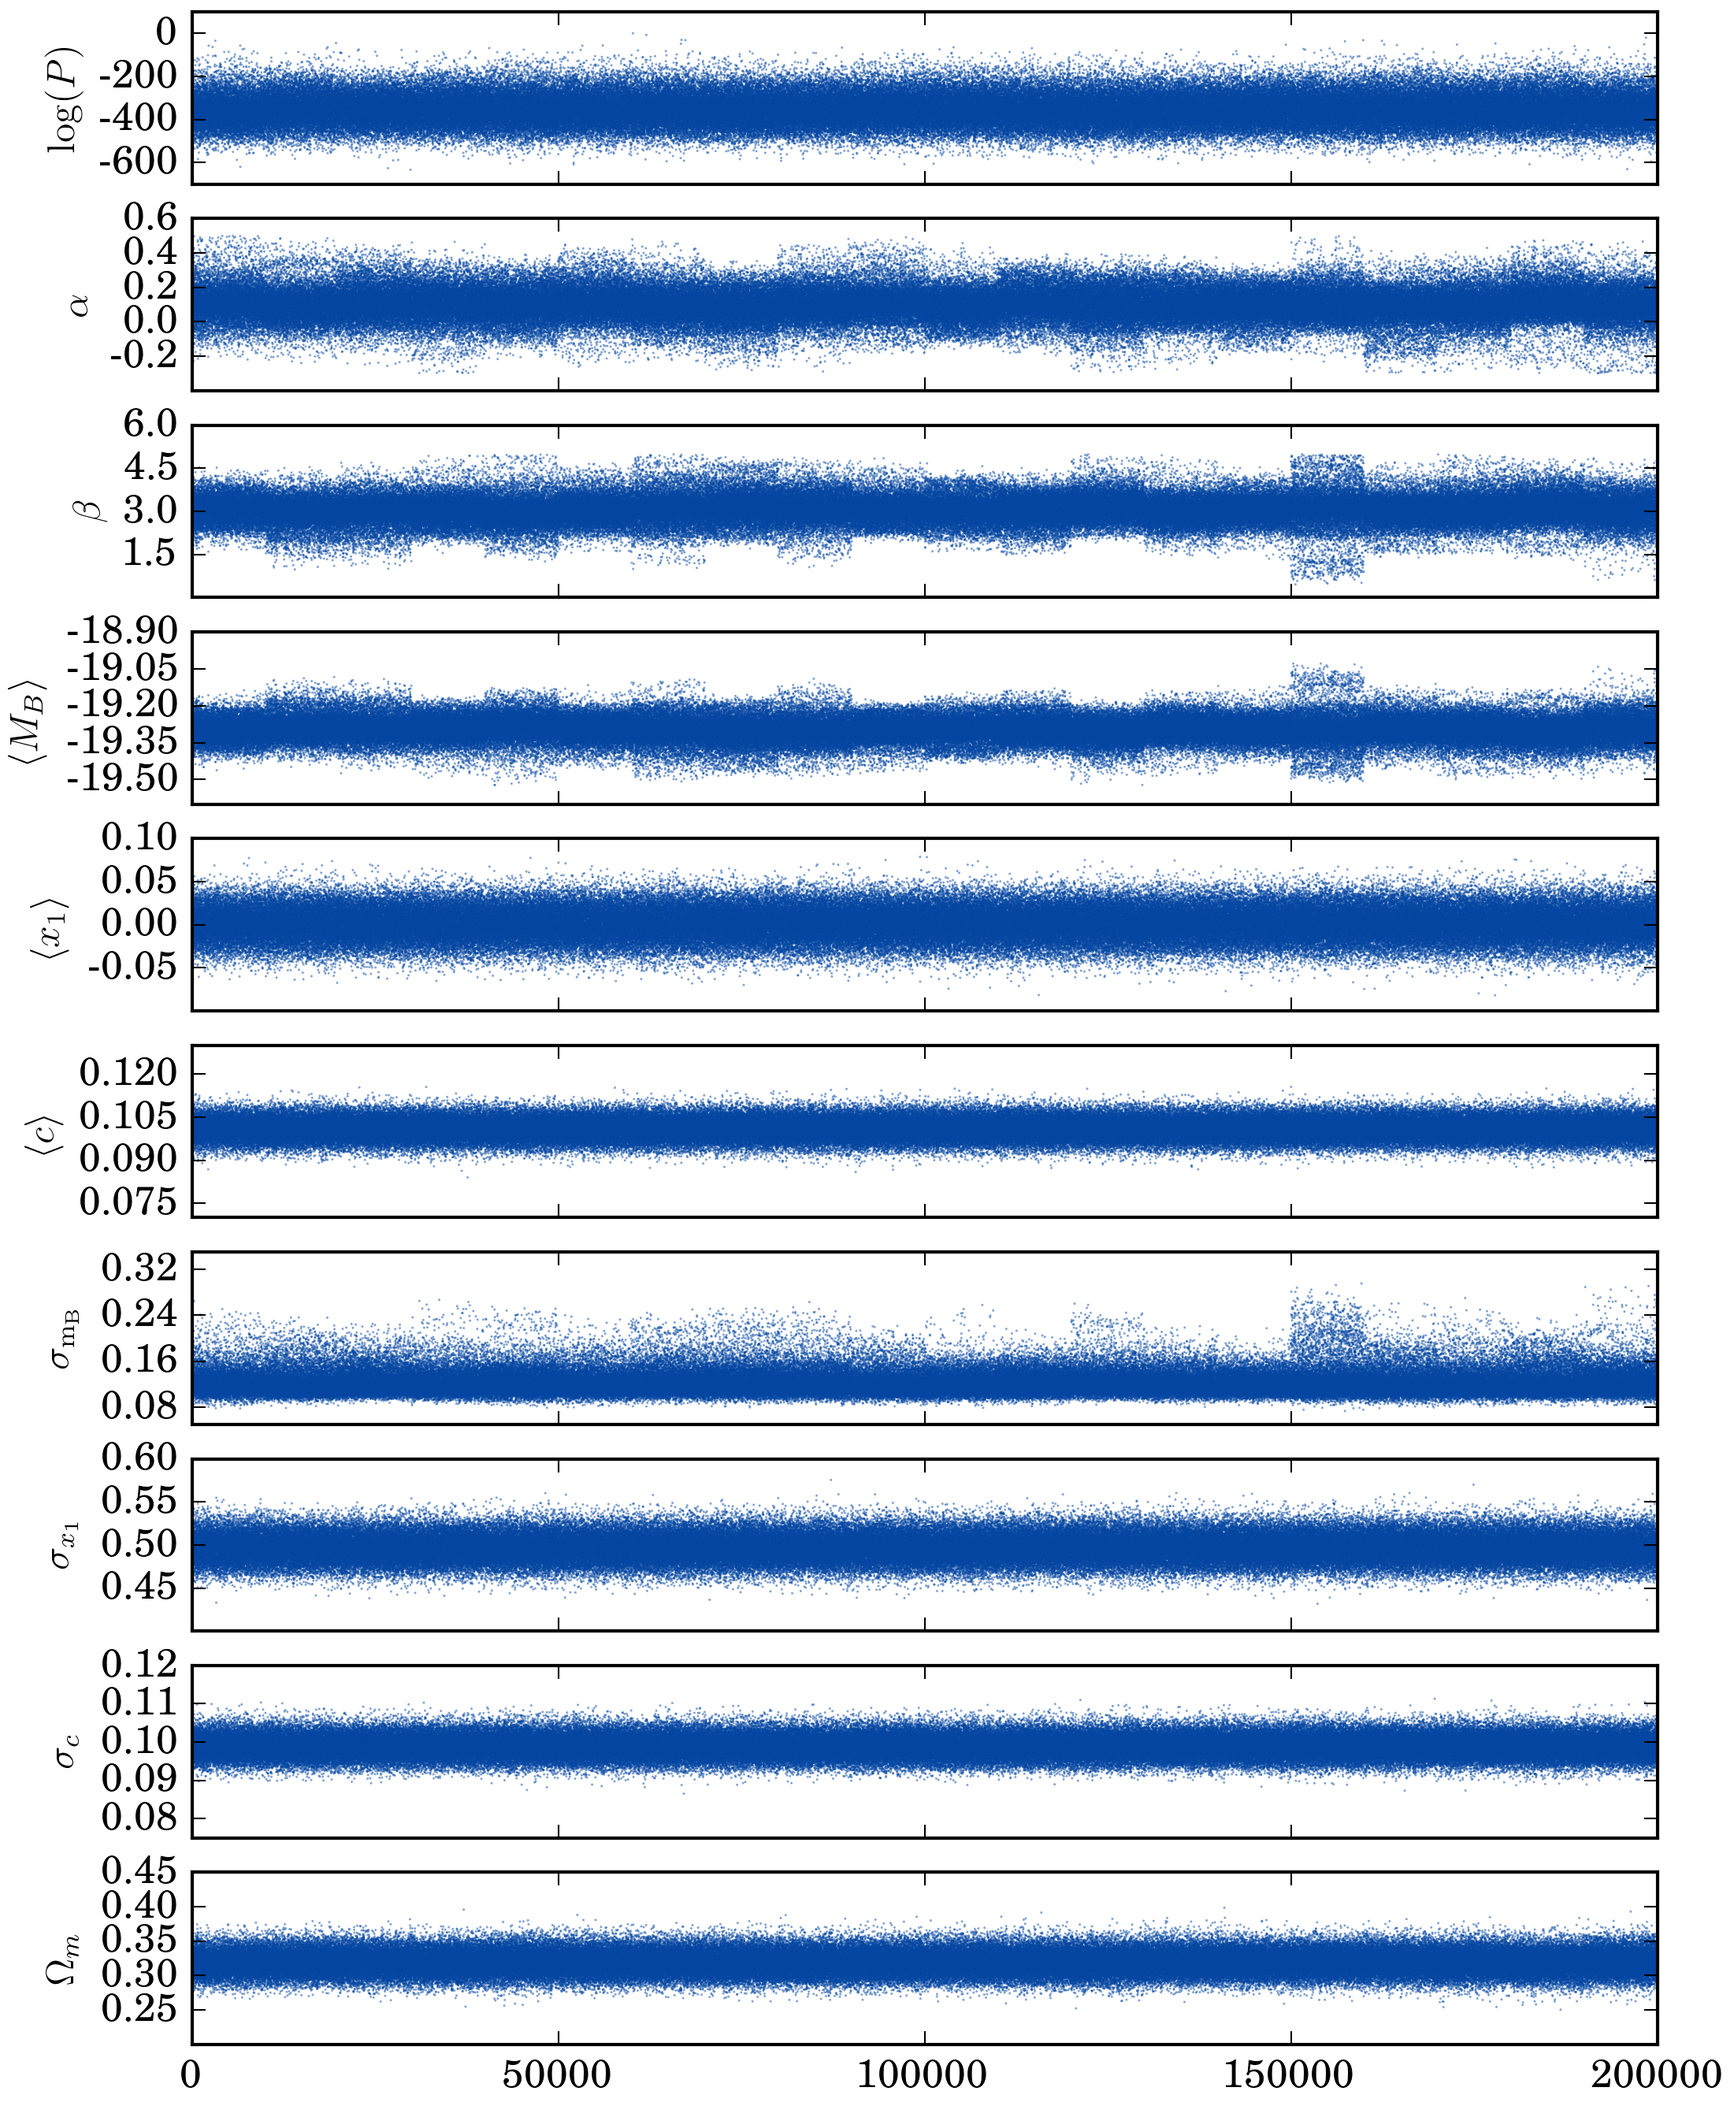
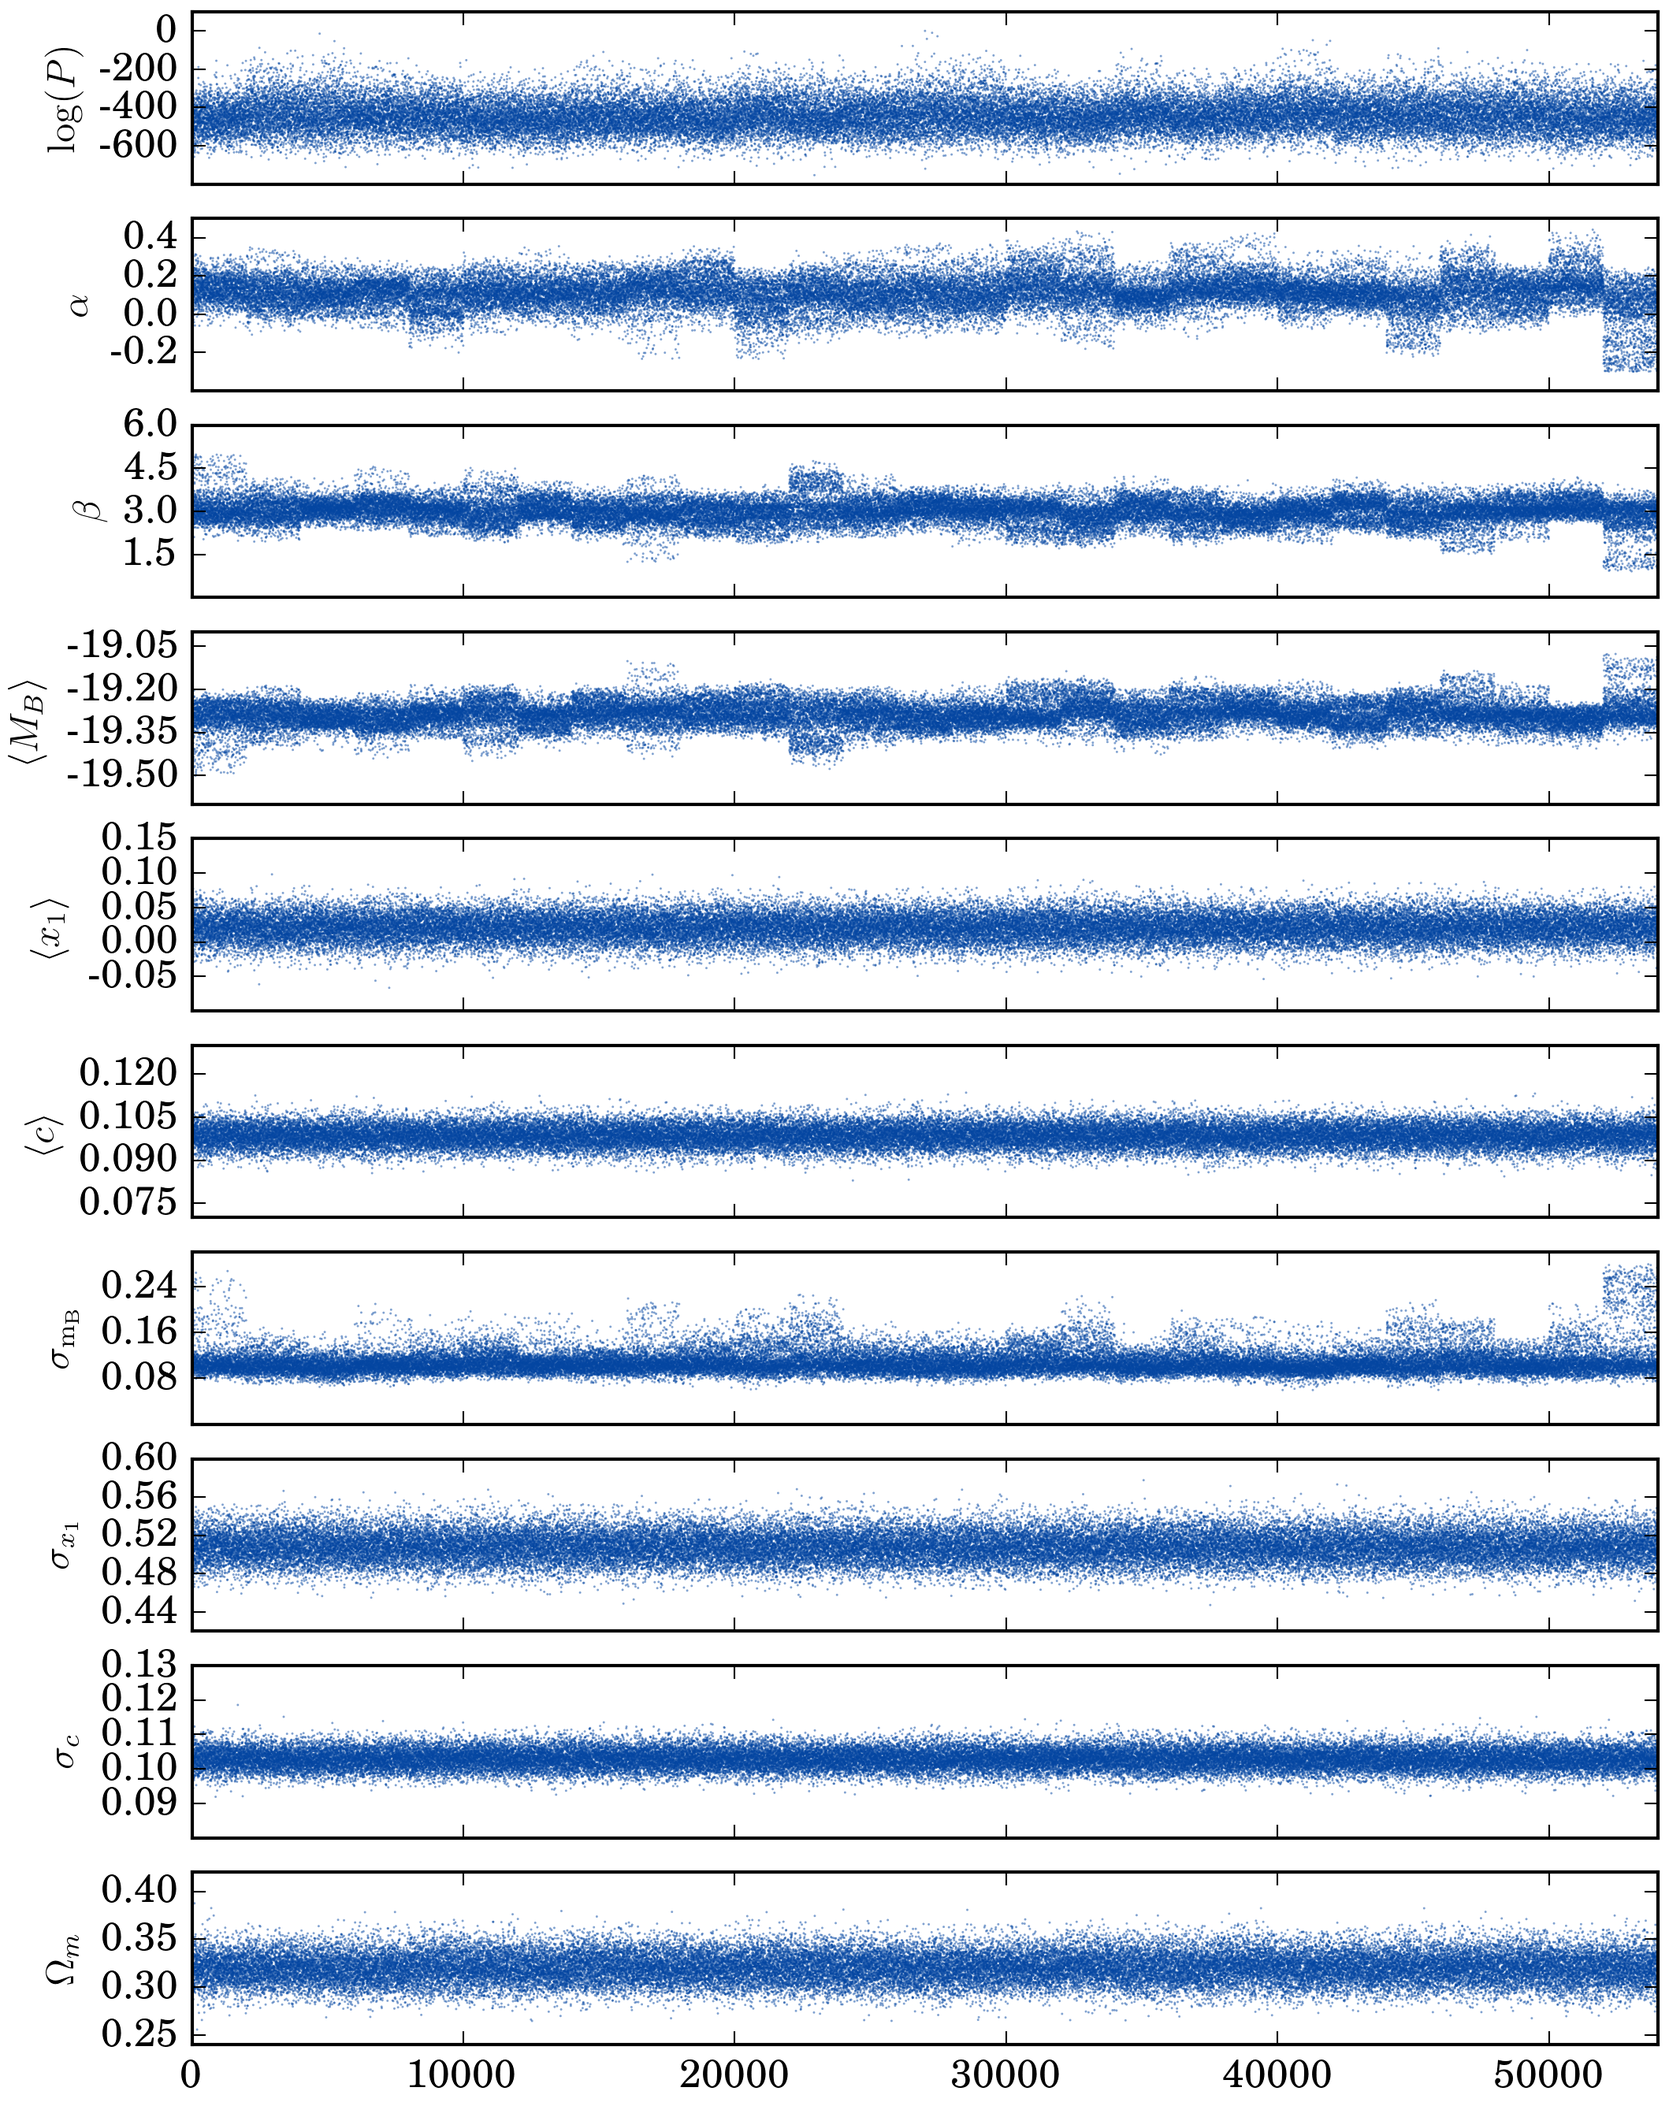
Updating doco. Mass is still sitting higher than it should. Which is annoying

Changed region(s): [[0.0312, 0.4968, 0.9972, 0.9936], [0.0312, 0.0, 0.9972, 0.4968]]

diff --git a/dessn/models/d_simple_stan/__init__.py b/dessn/models/d_simple_stan/__init__.py
@@ -112,10 +112,10 @@ So now we can focus on the likelihood's numerator, which is
     P(m_b, x_1, c, \hat{z}, \hat{m}| \Omega_m, w, \alpha, \beta, \gamma)
 
 Now, in order to calculate :math:`P(m_b, x_1, c, \hat{z}, \hat{m}| \Omega_m, w, \alpha, \beta, \gamma)`,
-we need to transform from :math:`m_B to M_B`. This is done via the following maths:
+we need to transform from :math:`m_B` to :math:`M_B`. This is done via the following maths:
 
 .. math::
-    M_B = m_B + \mu + \alpha x_1 - \beta c
+    M_B = m_B - \mu + \alpha x_1 - \beta c
 
 .. + k(z) m
 
@@ -130,88 +130,50 @@ where we define :math:`\mu` as
 .. k(z) &= \delta(0) \left[\frac{1.9\left( 1 - \frac{\delta(\infty)}{\delta(0)}
     \right)}{0.9 + 10^{0.95z}} + \frac{\delta(\infty)}{\delta(0)} \right]
 
-Thus :math:`M_B` is a function of :math:`\Omega_m, w, \alpha, \beta, x_1, c, z`.
-
-----------
-
-**Distributions**:
-
-Latent colour is drawn from a skew normal. Latent stretch is drawn from a normal.
+Thus :math:`M_B` is a function of :math:`\Omega_m, w, \alpha, \beta, x_1, c, z`. We can substitute
+:math:`M_B` into our conditional probability:
 
 .. math::
-    P(c| \langle c \rangle, \sigma_c, \alpha_c) &= \mathcal{N}_{\rm skew}
-    (c|\langle c \rangle, \sigma_c, \alpha_c) \\
+    P(m_b, x_1, c, \hat{z}, \hat{m}| \Omega_m, w, \alpha, \beta, \gamma)
+    &= P(M_B, m_b, x_1, c, \hat{z}, \hat{m}| \Omega_m, w, \alpha, \beta, \gamma) \\[10pt]
+    &= P(M_B, x_1, c, | \gamma) \\[10pt]
+    &= \mathcal{N}\left( \lbrace M_B, x_1, c \rbrace | \lbrace \langle M_B \rangle, \langle x_1 \rangle, \langle c \rangle \rbrace, V) \right)
 
-    P(x_1| \langle x_1 \rangle, \sigma_{x1}) &= \mathcal{N}(x_1|\langle  x_1 \rangle, \sigma_{x1})
-
-**Mass correction**:
-
-We continue to follow Rubin et al. (2015) and model the mass correction as
+where
 
 .. math::
-    \Delta M = \hat{m} k(z) = \hat{m} \, \delta(0) \left[\frac{1.9\left( 1 - \frac{\delta(\infty)}{\delta(0)}
-    \right)}{0.9 + 10^{0.95z}} + \frac{\delta(\infty)}{\delta(0)} \right]
+    V &= \begin{pmatrix}
+    \sigma_{M_B}^2                        & \rho_{12} \sigma_{M_B} \sigma_{x_1}         & \rho_{13} \sigma_{M_B} \sigma_{c}  \\
+    \rho_{21} \sigma_{M_B} \sigma_{x_1}           & \sigma_{x_1}^2                    & \rho_{23} \sigma_{x_1} \sigma_{c}  \\
+    \rho_{31} \sigma_{M_B} \sigma_{c}          & \rho_{32} \sigma_{x_1} \sigma_{c}       & \sigma_{c}^2  \\
+    \end{pmatrix}
 
-**Dispersion**:
 
-Dispersion is modelled by adjusting the covariance matrix between the
-model :math:`\lbrace m_B,x_1,c \rbrace` and the observed. The extra factor
-added to the covariance is
+.. note::
+    In this implementation there is no skewness in the colour distribution.
+    As we do not require normalised probabilities, we can simply add in correcting
+    factors (such as an additional linear probability for colour) that can emulate skewness.
 
-.. math::
-    \sigma^2_{\rm add} = \sigma^2_{\rm int} \times \begin{pmatrix} f_m &
-    \rho_{12}\frac{\sqrt{f_m f_{x1}}}{0.13} & \rho_{13} \frac{\sqrt{f_m f_c}}{-3.0} \\
-    \rho_{12} \frac{\sqrt{f_m f_{x1}}}{0.13} & \frac{f_{x1}}{0.13^2} &
-    \rho_{23} \frac{\sqrt{f_{x1} f_{c}}}{(-3.0)(0.13)} \\
-    \rho_{13} \frac{\sqrt{f_m f_c}}{-3.0} & \rho_{23}
-    \frac{\sqrt{f_{x1} f_c }}{(-3.0)(0.13)} & \frac{f_c}{(-3.0)^2}    \end{pmatrix}
-
-**Combined**:
-
-Whilst it is tempting to write out everything with all variables clearly displayed, I
-am going to pass. But once, for posterity, we want to calculate:
+Putting this back together, we now have a simple hierarchical multi-normal model:
 
 .. math::
-    P(d|\theta) = P(\hat{m_B},\hat{x_1},\hat{c}, \hat{z}, \hat{m}|\Omega_M, w, \alpha, \beta,
-    \langle c \rangle, \sigma_c, \alpha_c, \langle x_1 \rangle, \sigma_{x_1}, M_B,
-    \sigma_{\rm int}, f_{m},\ f_{x_1},\ f_{c}, \rho, \delta(0), \delta(\infty))
+    \mathcal{L} &= \int dm_B \int dx_1 \int dc \  \mathcal{N}\left( \lbrace \hat{m_B}, \hat{x_1}, \hat{c} \rbrace | \lbrace m_B, x_1, c \rbrace, C \right)
+    \mathcal{N}\left( \lbrace M_B, x_1, c \rbrace | \lbrace \langle M_B \rangle, \langle x_1 \rangle, \langle c \rangle \rbrace, V) \right)
 
-Let us introduce several transformations. Firstly, from cosmology to distance modulus, such that
-
-.. math::
-    \mu = 5 \log_{10} \left[ \frac{(1 + z)c}{H_0 \times 10{\rm pc}} \int_0^z \left(
-    \Omega_m (1 + z)^3 + (1 - \Omega_m)(1+z)^{3(1+w)} \right) \right]
-
-Secondly, the predicted apparent magnitudes :math:`m_B` can be constructed
-using the distance modulus, the Phillips relation, and the mass correction.
-
-.. math::
-    m_B = M - \mu - \alpha x_1 + \beta c - \Delta M
-
-Putting these together, we have that
-
-.. math::
-    P(d|\theta) = \prod_{\rm obs} \mathcal{N} \left(\lbrace \hat{m_B}, \hat{c}, \hat{x_1} \rbrace |
-     \lbrace {m_B}, {c}, {x_1},  \rbrace, C + \sigma_{\rm add}^2\right)
-     \mathcal{N}_{\rm skew}(c|\langle c \rangle, \sigma_c, \alpha_c)
-     \mathcal{N}(x_1|\langle  x_1 \rangle, \sigma_{x1})
-
-Looking now at the priors, we implement :math:`{\rm Cauchy}(0,2.5)` priors on
-:math:`\sigma_{\rm int}`, :math:`\sigma_{x_1}` and :math:`\sigma_c` and flat priors on
-all other variables.
+Adding in the priors, and taking into account that we observe multiple supernova, we have
+that a final numerator of:
 
 .. math::
     P(d|\theta)P(\theta) &\propto
-    \rm{Cauchy}(\sigma_{\rm int}|0,2.5)
+    \int dm_B \int dx_1 \int dc \
+    \rm{Cauchy}(\sigma_{M_B}|0,2.5)
     \rm{Cauchy}(\sigma_{x_1}|0,2.5)
-    \rm{Cauchy}(\sigma_{c}|0,2.5) \\
-    &\quad\quad\quad \prod_{\rm obs} \mathcal{N} \left(\lbrace \hat{m_B}, \hat{c}, \hat{x_1} \rbrace |
-     \lbrace {m_B}, {c}, {x_1},  \rbrace, C + \sigma_{\rm add}^2\right)
-     \mathcal{N}_{\rm skew}(c|\langle c \rangle, \sigma_c, \alpha_c)
-     \mathcal{N}(x_1|\langle  x_1 \rangle, \sigma_{x1})
+    \rm{Cauchy}(\sigma_{c}|0,2.5)
+    \rm{LKJ}(\rho|4) \\
+    &\quad\quad\quad \mathcal{N}\left( \lbrace \hat{m_B}, \hat{x_1}, \hat{c} \rbrace | \lbrace m_B, x_1, c \rbrace, C \right)
+    \mathcal{N}\left( \lbrace M_B, x_1, c \rbrace | \lbrace \langle M_B \rangle, \langle x_1 \rangle, \langle c \rangle \rbrace, V) \right)
 
-A very rough fit for this (defintiely not enough steps), is shown below, for a thousand generated
-supernova.
+A rough fit for this, is shown below, for five hundred generated supernova.
 
 .. figure::     ../dessn/models/d_simple_stan/output/plot.png
     :align:     center
